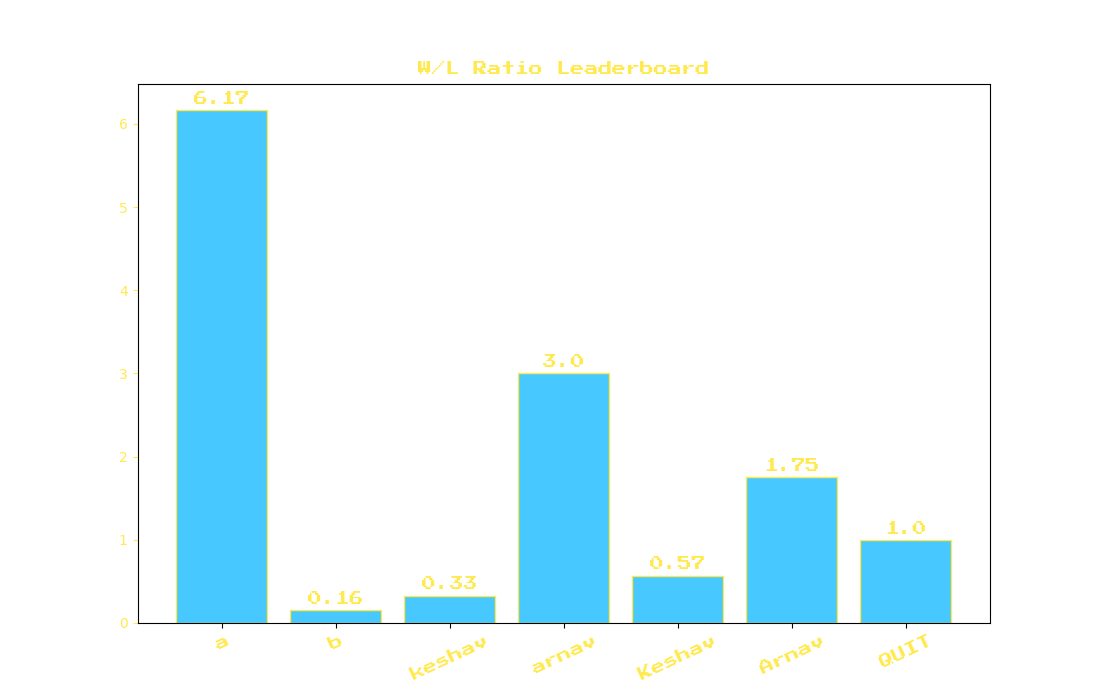
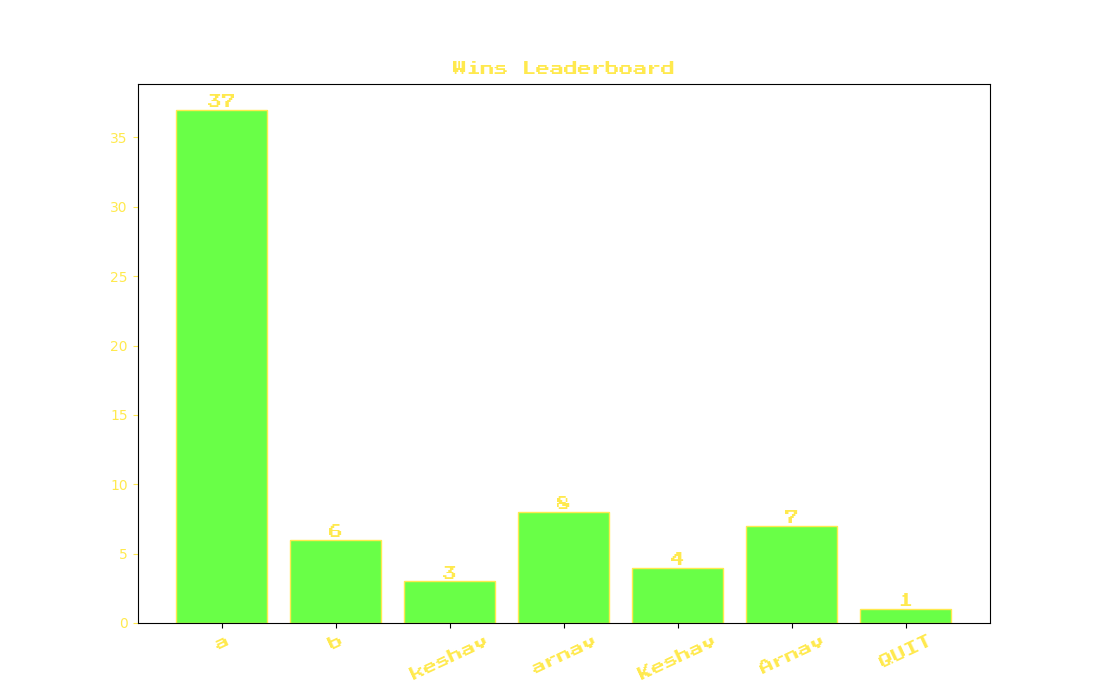
Final commit

diff --git a/game.py b/game.py
@@ -14,30 +14,28 @@ cyan = (0,220,255)
 button_panel = (20,20,60)
 button_hover = (40,40,100)
 
-# graph colors (pygame format)
-green_bar = (105,255,71)
-red_bar = (255,76,76)
-blue_bar = (71,200,255)
-yellow = (255,233,78)
-white_graph = (255,255,255)
+# graph colors — matplotlib needs 0-1 float tuples, not 0-255
+def rgb(r, g, b):
+    return (r/255, g/255, b/255)
 
-# pie chart colors
+green_bar  = rgb(105, 255, 71)
+red_bar    = rgb(255, 76,  76)
+blue_bar   = rgb(71,  200, 255)
+yellow     = rgb(255, 233, 78)
+white_graph= rgb(255, 255, 255)
+
 pie_colors = [
-    (232,54,93),
-    (58,134,255),
-    (131,56,236),
-    (251,86,7),
-    (6,214,160),
-    (255,0,110)
+    rgb(232, 54,  93),
+    rgb(58,  134, 255),
+    rgb(131, 56,  236),
+    rgb(251, 86,  7),
+    rgb(6,   214, 160),
+    rgb(255, 0,   110),
 ]
-
-# convert rgb (0-255) to matplotlib (0-1)
-def mpl_color(rgb):
-    return tuple(c/255 for c in rgb)
 
 
 class BaseGame:
-    def __init__(self,player1,player2):
+    def __init__(self, player1, player2):
         self.player1 = player1
         self.player2 = player2
         self.current_player = 1
@@ -56,7 +54,7 @@ class BaseGame:
 
 
 # save match result
-def record_result(winner,loser,game_name):
+def record_result(winner, loser, game_name):
     if winner is None:
         return
     with open("history.csv", "a") as f:
@@ -70,51 +68,40 @@ def show_sort_menu(screen):
     sort_bg = pygame.image.load("games/bg_images/sortmetric_bg.png")
     sort_bg = pygame.transform.scale(sort_bg, (1000, 700))
 
-    wins_img = pygame.image.load("games/button_images/wins_button_transparent.png")
-    losses_img = pygame.image.load("games/button_images/losses_button_transparent.png")
-    ratio_img = pygame.image.load("games/button_images/wlratio_button_transparent.png")
+    wins_img   = pygame.transform.scale(pygame.image.load("games/button_images/wins_button_transparent.png"),   (300, 80))
+    losses_img = pygame.transform.scale(pygame.image.load("games/button_images/losses_button_transparent.png"), (300, 80))
+    ratio_img  = pygame.transform.scale(pygame.image.load("games/button_images/wlratio_button_transparent.png"),(300, 80))
 
-    wins_img = pygame.transform.scale(wins_img, (300, 80))
-    losses_img = pygame.transform.scale(losses_img, (300, 80))
-    ratio_img = pygame.transform.scale(ratio_img, (300, 80))
-
-    wins_rect = wins_img.get_rect(center=(500, 300))
+    wins_rect   = wins_img.get_rect(center=(500, 300))
     losses_rect = losses_img.get_rect(center=(500, 400))
-    ratio_rect = ratio_img.get_rect(center=(500, 500))
+    ratio_rect  = ratio_img.get_rect(center=(500, 500))
 
     hover_size = (330, 90)
-
-    wins_hover = pygame.transform.smoothscale(wins_img, hover_size)
-    losses_hover = pygame.transform.smoothscale(losses_img, hover_size)
-    ratio_hover = pygame.transform.smoothscale(ratio_img, hover_size)
-
-    wins_hover_rect = wins_hover.get_rect(center=wins_rect.center)
+    wins_hover        = pygame.transform.smoothscale(wins_img,   hover_size)
+    losses_hover      = pygame.transform.smoothscale(losses_img, hover_size)
+    ratio_hover       = pygame.transform.smoothscale(ratio_img,  hover_size)
+    wins_hover_rect   = wins_hover.get_rect(center=wins_rect.center)
     losses_hover_rect = losses_hover.get_rect(center=losses_rect.center)
-    ratio_hover_rect = ratio_hover.get_rect(center=ratio_rect.center)
+    ratio_hover_rect  = ratio_hover.get_rect(center=ratio_rect.center)
 
     running = True
-
     while running:
         mouse_pos = pygame.mouse.get_pos()
 
         for event in pygame.event.get():
             if event.type == pygame.QUIT:
                 return
-
             if event.type == pygame.MOUSEBUTTONDOWN:
-
                 if wins_rect.collidepoint(mouse_pos):
                     subprocess.run(["bash", "leaderboard.sh", "wins"])
                     generate_graphs("wins")
                     show_graphs(screen)
                     return
-
                 if losses_rect.collidepoint(mouse_pos):
                     subprocess.run(["bash", "leaderboard.sh", "losses"])
                     generate_graphs("losses")
                     show_graphs(screen)
                     return
-
                 if ratio_rect.collidepoint(mouse_pos):
                     subprocess.run(["bash", "leaderboard.sh", "ratio"])
                     generate_graphs("ratio")
@@ -142,7 +129,7 @@ def show_sort_menu(screen):
         clock.tick(60)
 
 
-# generate graphs
+# generate graphs using matplotlib
 def generate_graphs(sort_by):
     import matplotlib.font_manager as fm
 
@@ -156,65 +143,47 @@ def generate_graphs(sort_by):
             parts = line.strip().split(",")
             if len(parts) < 4:
                 continue
-
             winner, loser, _, game = parts
-
             if winner in ["", "None", "Draw"] or loser in ["", "None", "Draw"]:
                 continue
-
             if winner not in players:
                 players.append(winner)
                 wins.append(0)
                 losses.append(0)
             wins[players.index(winner)] += 1
-
             if loser not in players:
                 players.append(loser)
                 wins.append(0)
                 losses.append(0)
             losses[players.index(loser)] += 1
-
             game_counts[game] = game_counts.get(game, 0) + 1
 
     if sort_by == "wins":
-        values = wins
-        title = "Wins Leaderboard"
-        bar_color = mpl_color(green_bar)
-
+        values    = wins
+        title     = "Wins Leaderboard"
+        bar_color = green_bar
     elif sort_by == "losses":
-        values = losses
-        title = "Losses Leaderboard"
-        bar_color = mpl_color(red_bar)
-
+        values    = losses
+        title     = "Losses Leaderboard"
+        bar_color = red_bar
     else:
-        values = [round(wins[i] / losses[i], 2) if losses[i] else wins[i] for i in range(len(players))]
-        title = "W/L Ratio Leaderboard"
-        bar_color = mpl_color(blue_bar)
+        values    = [round(wins[i] / losses[i], 2) if losses[i] else wins[i] for i in range(len(players))]
+        title     = "W/L Ratio Leaderboard"
+        bar_color = blue_bar
 
+    # bar graph
     fig, ax = plt.subplots(figsize=(11, 7))
     fig.patch.set_alpha(0)
-    ax.set_facecolor((0,0,0,0))
+    ax.set_facecolor((0, 0, 0, 0))
 
-    ax.bar(range(len(players)), values,
-           color=bar_color,
-           edgecolor=mpl_color(yellow))
-
+    ax.bar(range(len(players)), values, color=bar_color, edgecolor=yellow)
     ax.set_xticks(range(len(players)))
-    ax.set_xticklabels(players, rotation=25,
-                       fontproperties=pixel_prop,
-                       color=mpl_color(yellow))
-
-    ax.tick_params(axis='y', colors=mpl_color(yellow))
-
-    ax.set_title(title,
-                 color=mpl_color(yellow),
-                 fontproperties=pixel_prop)
+    ax.set_xticklabels(players, rotation=25, fontproperties=pixel_prop, color=yellow)
+    ax.tick_params(axis='y', colors=yellow)
+    ax.set_title(title, color=yellow, fontproperties=pixel_prop)
 
     for i, v in enumerate(values):
-        ax.text(i, v + 0.05, str(v),
-                ha='center',
-                color=mpl_color(yellow),
-                fontproperties=pixel_prop)
+        ax.text(i, v + 0.05, str(v), ha='center', color=yellow, fontproperties=pixel_prop)
 
     plt.savefig("bar_graph.png", transparent=True)
     plt.close()
@@ -223,26 +192,27 @@ def generate_graphs(sort_by):
     fig, ax = plt.subplots(figsize=(8, 8))
     fig.patch.set_alpha(0)
 
-    ax.pie(
+    wedges, texts, autotexts = ax.pie(
         list(game_counts.values()),
         labels=list(game_counts.keys()),
         autopct='%1.1f%%',
-        colors=[mpl_color(c) for c in pie_colors]
+        colors=pie_colors[:len(game_counts)]
     )
+    for t in texts:
+        t.set_fontproperties(pixel_prop)
+    for at in autotexts:
+        at.set_fontproperties(pixel_prop)
 
-    ax.set_title("Games Played Distribution",
-                 color=mpl_color(yellow),
-                 fontproperties=pixel_prop)
-
+    ax.set_title("Games Played Distribution", color=yellow, fontproperties=pixel_prop)
     plt.savefig("pie_graph.png", transparent=True)
     plt.close()
 
 
-# show graphs
+# show graphs on screen
 def show_graphs(screen):
     clock = pygame.time.Clock()
 
-    bg = pygame.transform.scale(pygame.image.load("games/bg_images/genbg_resized.jpeg"), (1000, 700))
+    bg      = pygame.transform.scale(pygame.image.load("games/bg_images/genbg_resized.jpeg"), (1000, 700))
     pie_img = pygame.transform.smoothscale(pygame.image.load("pie_graph.png"), (360, 330))
     bar_img = pygame.transform.smoothscale(pygame.image.load("bar_graph.png"), (520, 280))
 
@@ -258,8 +228,7 @@ def show_graphs(screen):
         screen.blit(bar_img, bar_rect)
 
         text1 = font.render("Leaderboard printed on terminal", True, light_blue)
-        text2 = font.render("CLICK ANYWHERE TO RETURN", True, light_blue)
-
+        text2 = font.render("CLICK ANYWHERE TO RETURN",        True, light_blue)
         screen.blit(text1, text1.get_rect(center=(500, 630)))
         screen.blit(text2, text2.get_rect(center=(500, 670)))
 
@@ -273,60 +242,86 @@ def show_graphs(screen):
         clock.tick(60)
 
 
+# main menu
 def main():
     player1 = sys.argv[1]
     player2 = sys.argv[2]
 
     pygame.init()
-    screen = pygame.display.set_mode((1000,700))
+    screen = pygame.display.set_mode((1000, 700))
     pygame.display.set_caption("Mini Game Hub")
     clock = pygame.time.Clock()
 
-    bg = pygame.image.load("games/bg_images/game_hub.png")
+    # load images
+    bg            = pygame.image.load("games/bg_images/game_hub.png")
+    connect4_img  = pygame.transform.scale(pygame.image.load("games/button_images/connect4_button_cropped.png"),        (302, 87))
+    tictactoe_img = pygame.transform.scale(pygame.image.load("games/button_images/tictactoe_button_transparent.png"),   (302, 87))
+    othello_img   = pygame.transform.scale(pygame.image.load("games/button_images/othello_button_transparent.png"),     (302, 87))
 
-    connect4_img = pygame.transform.scale(pygame.image.load("games/button_images/connect4_button_cropped.png"), (302,87))
-    tictactoe_img = pygame.transform.scale(pygame.image.load("games/button_images/tictactoe_button_transparent.png"), (302,87))
-    othello_img = pygame.transform.scale(pygame.image.load("games/button_images/othello_button_transparent.png"), (302,87))
+    quit_rect = pygame.Rect(17, 18, 118, 67)
 
-    quit_rect = pygame.Rect(17,18,118,67)
-
-    connect4_rect = connect4_img.get_rect(center=(500, 280))
+    connect4_rect  = connect4_img.get_rect(center=(500, 280))
     tictactoe_rect = tictactoe_img.get_rect(center=(500, 480))
-    othello_rect = othello_img.get_rect(center=(500, 380))
+    othello_rect   = othello_img.get_rect(center=(500, 380))
 
-    while True:
+    # hover images — restored
+    hover_size = (int(302 * 1.1), int(87 * 1.1))
+    connect4_hover  = pygame.transform.smoothscale(connect4_img,  hover_size)
+    tictactoe_hover = pygame.transform.smoothscale(tictactoe_img, hover_size)
+    othello_hover   = pygame.transform.smoothscale(othello_img,   hover_size)
+    connect4_hover_rect  = connect4_hover.get_rect(center=connect4_rect.center)
+    tictactoe_hover_rect = tictactoe_hover.get_rect(center=tictactoe_rect.center)
+    othello_hover_rect   = othello_hover.get_rect(center=othello_rect.center)
+
+    running = True
+    while running:
+        mouse_pos = pygame.mouse.get_pos()
+
         for event in pygame.event.get():
             if event.type == pygame.QUIT:
                 pygame.quit()
                 sys.exit()
 
             if event.type == pygame.MOUSEBUTTONDOWN:
-                if quit_rect.collidepoint(pygame.mouse.get_pos()):
+                if quit_rect.collidepoint(mouse_pos):
                     pygame.quit()
                     sys.exit()
 
-                if connect4_rect.collidepoint(pygame.mouse.get_pos()):
+                if connect4_rect.collidepoint(mouse_pos):
                     game = Connect4(player1, player2)
                     winner, loser = game.run(screen)
                     record_result(winner, loser, "Connect-4")
                     show_sort_menu(screen)
 
-                if tictactoe_rect.collidepoint(pygame.mouse.get_pos()):
+                if tictactoe_rect.collidepoint(mouse_pos):
                     game = TicTacToe(player1, player2)
                     winner, loser = game.run(screen)
                     record_result(winner, loser, "TicTacToe")
                     show_sort_menu(screen)
 
-                if othello_rect.collidepoint(pygame.mouse.get_pos()):
+                if othello_rect.collidepoint(mouse_pos):
                     game = Othello(player1, player2)
                     winner, loser = game.run(screen)
                     record_result(winner, loser, "Othello")
                     show_sort_menu(screen)
 
-        screen.blit(bg,(0,0))
-        screen.blit(connect4_img, connect4_rect)
-        screen.blit(tictactoe_img, tictactoe_rect)
-        screen.blit(othello_img, othello_rect)
+        screen.blit(bg, (0, 0))
+
+        # draw buttons with hover effect
+        if connect4_rect.collidepoint(mouse_pos):
+            screen.blit(connect4_hover, connect4_hover_rect)
+        else:
+            screen.blit(connect4_img, connect4_rect)
+
+        if tictactoe_rect.collidepoint(mouse_pos):
+            screen.blit(tictactoe_hover, tictactoe_hover_rect)
+        else:
+            screen.blit(tictactoe_img, tictactoe_rect)
+
+        if othello_rect.collidepoint(mouse_pos):
+            screen.blit(othello_hover, othello_hover_rect)
+        else:
+            screen.blit(othello_img, othello_rect)
 
         pygame.display.flip()
         clock.tick(60)

diff --git a/games/connect4.py b/games/connect4.py
@@ -33,7 +33,7 @@ class Connect4(BaseGame):
 
         # fonts for displaying text
         self.font1 = pygame.font.Font("PressStart2P-Regular.ttf", 26)
-        self.font2 = pygame.font.Font("PressStart2P-Regular.ttf", 100)
+        self.font2 = pygame.font.Font("PressStart2P-Regular.ttf", 50)
 
         # background image for connect4
         self.bg1 = pygame.image.load("games/bg_images/Connect4_final.png")
